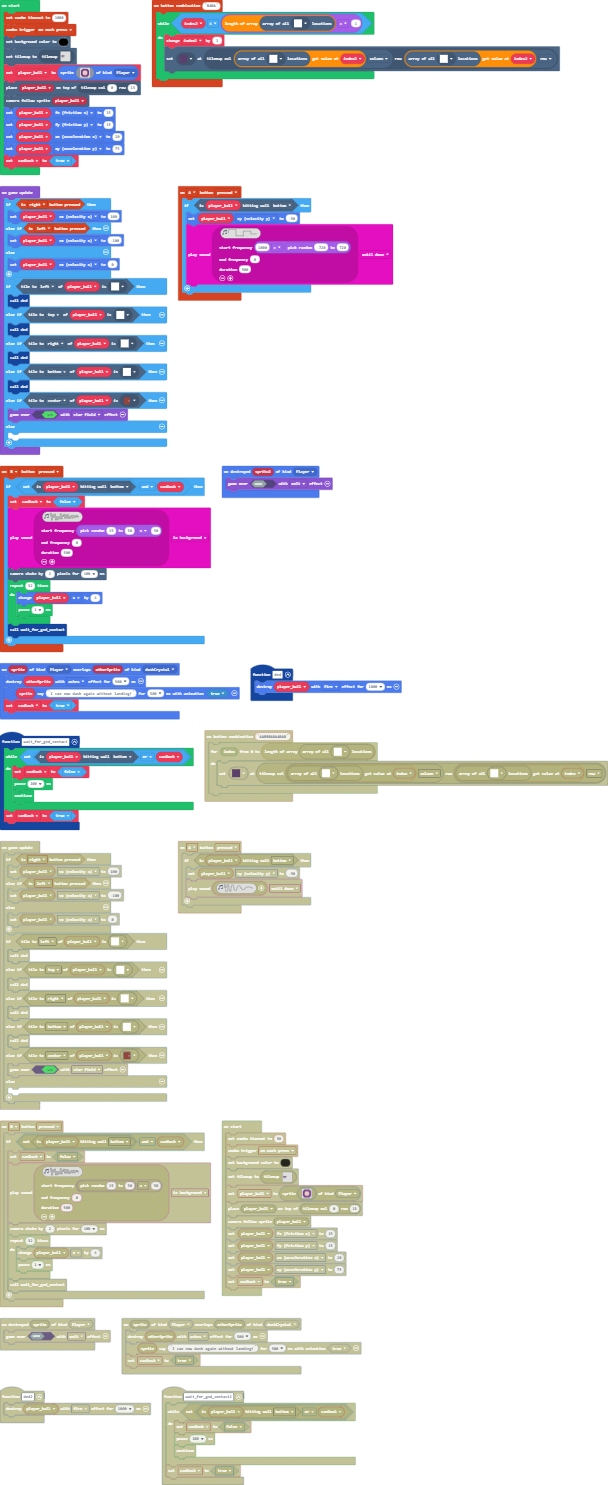
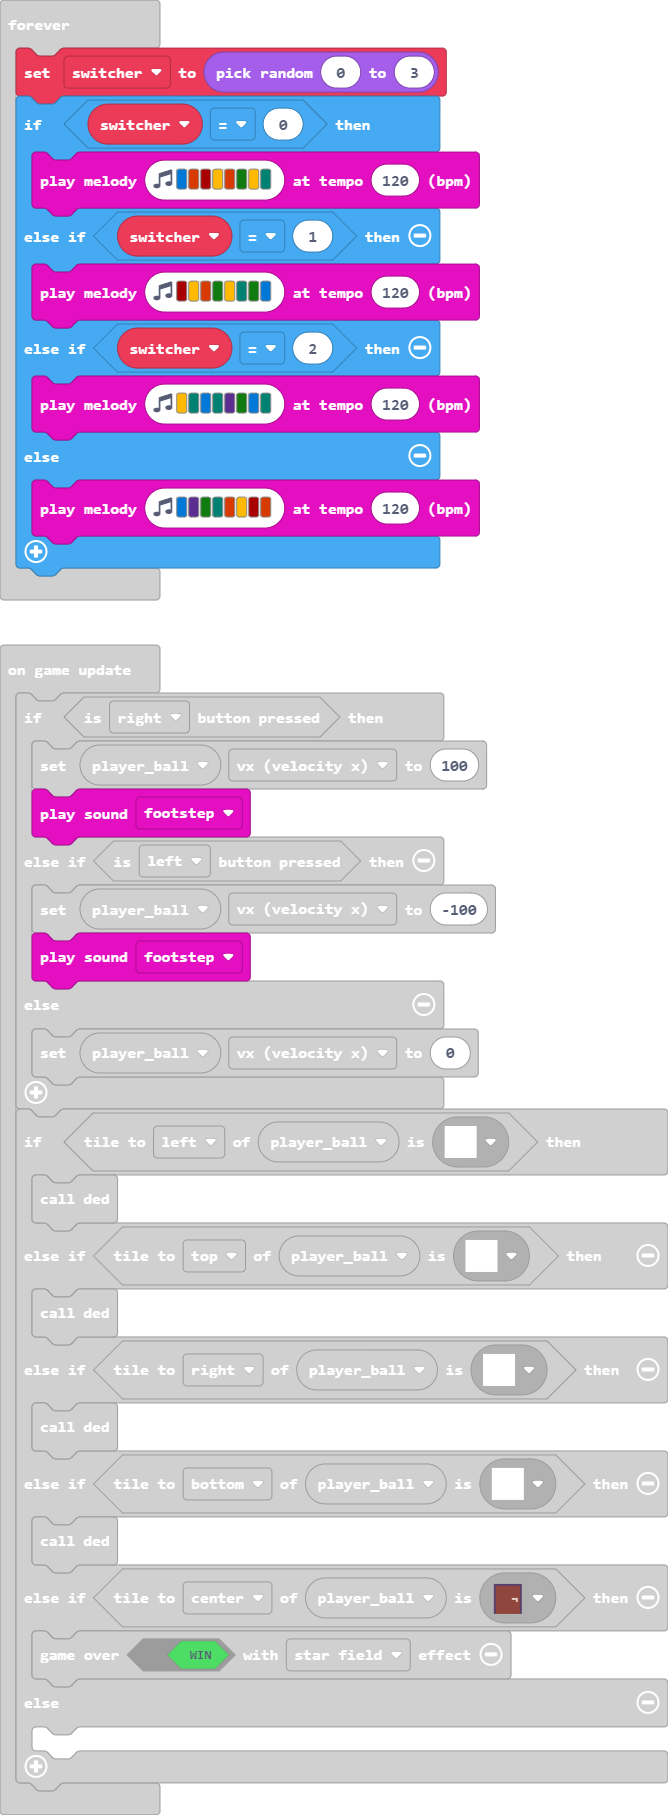
Added footstep noises and random music picker

diff --git a/main.ts b/main.ts
@@ -62,6 +62,7 @@ controller.combos.attachCombo("BABA", function () {
 function ded () {
     player_ball.destroy(effects.fire, 1000)
 }
+let switcher = 0
 let index2 = 0
 let canDash = false
 let player_ball: Sprite = null
@@ -80,8 +81,10 @@ canDash = true
 game.onUpdate(function () {
     if (controller.right.isPressed()) {
         player_ball.vx = 100
+        music.footstep.play()
     } else if (controller.left.isPressed()) {
         player_ball.vx = -100
+        music.footstep.play()
     } else {
         player_ball.vx = 0
     }
@@ -100,8 +103,14 @@ game.onUpdate(function () {
     }
 })
 forever(function () {
-    music.playMelody("E B C5 A B G A F ", 120)
-    music.playMelody("C5 A B G A F G E ", 120)
-    music.playMelody("A F E F D G E F ", 120)
-    music.playMelody("E D G F B A C5 B ", 120)
+    switcher = randint(0, 3)
+    if (switcher == 0) {
+        music.playMelody("E B C5 A B G A F ", 120)
+    } else if (switcher == 1) {
+        music.playMelody("C5 A B G A F G E ", 120)
+    } else if (switcher == 2) {
+        music.playMelody("A F E F D G E F ", 120)
+    } else {
+        music.playMelody("E D G F B A C5 B ", 120)
+    }
 })
